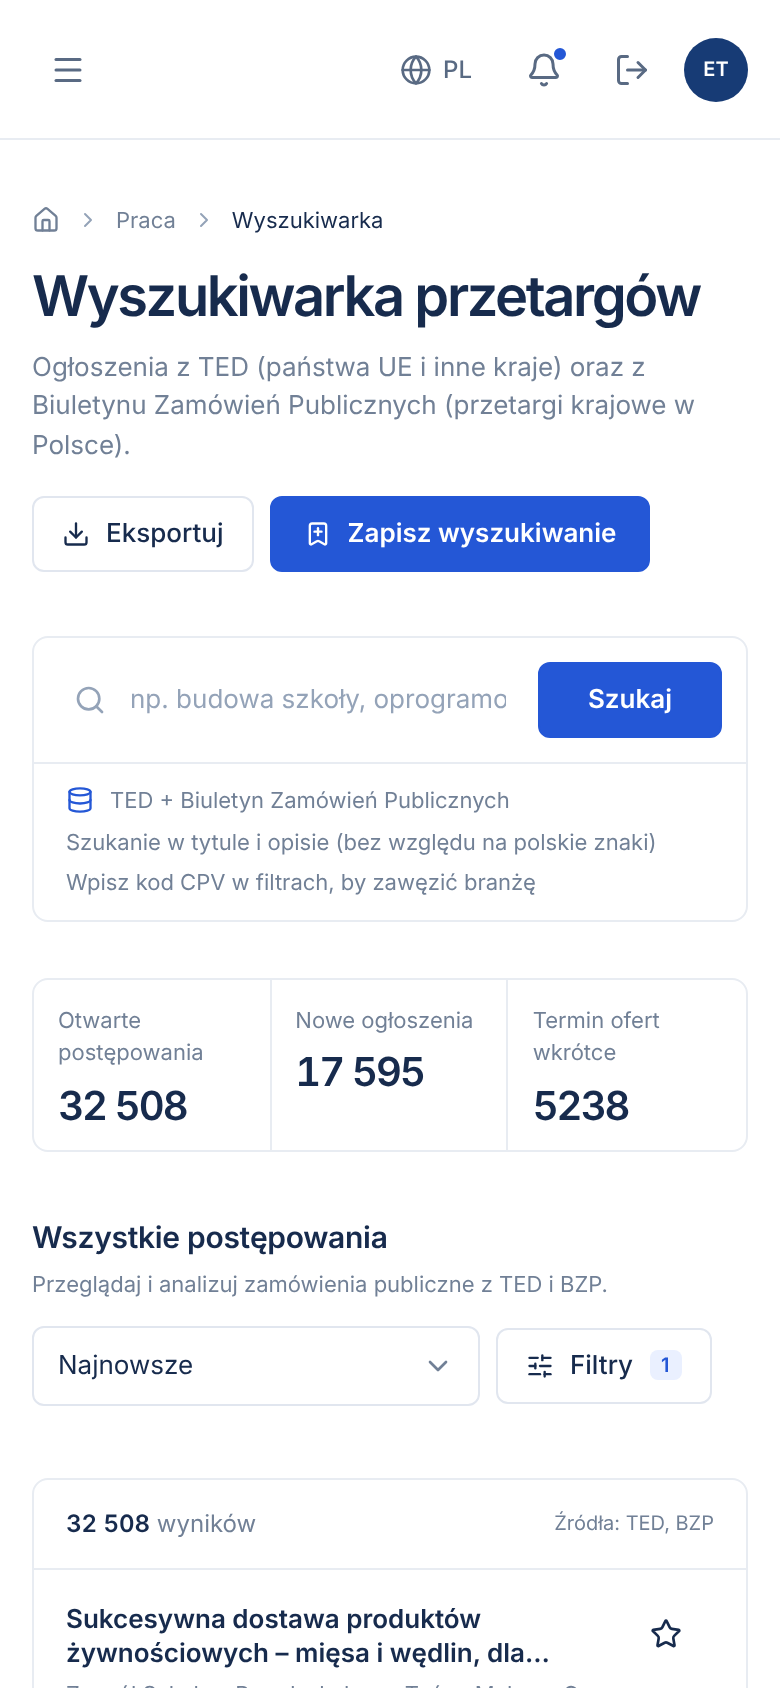
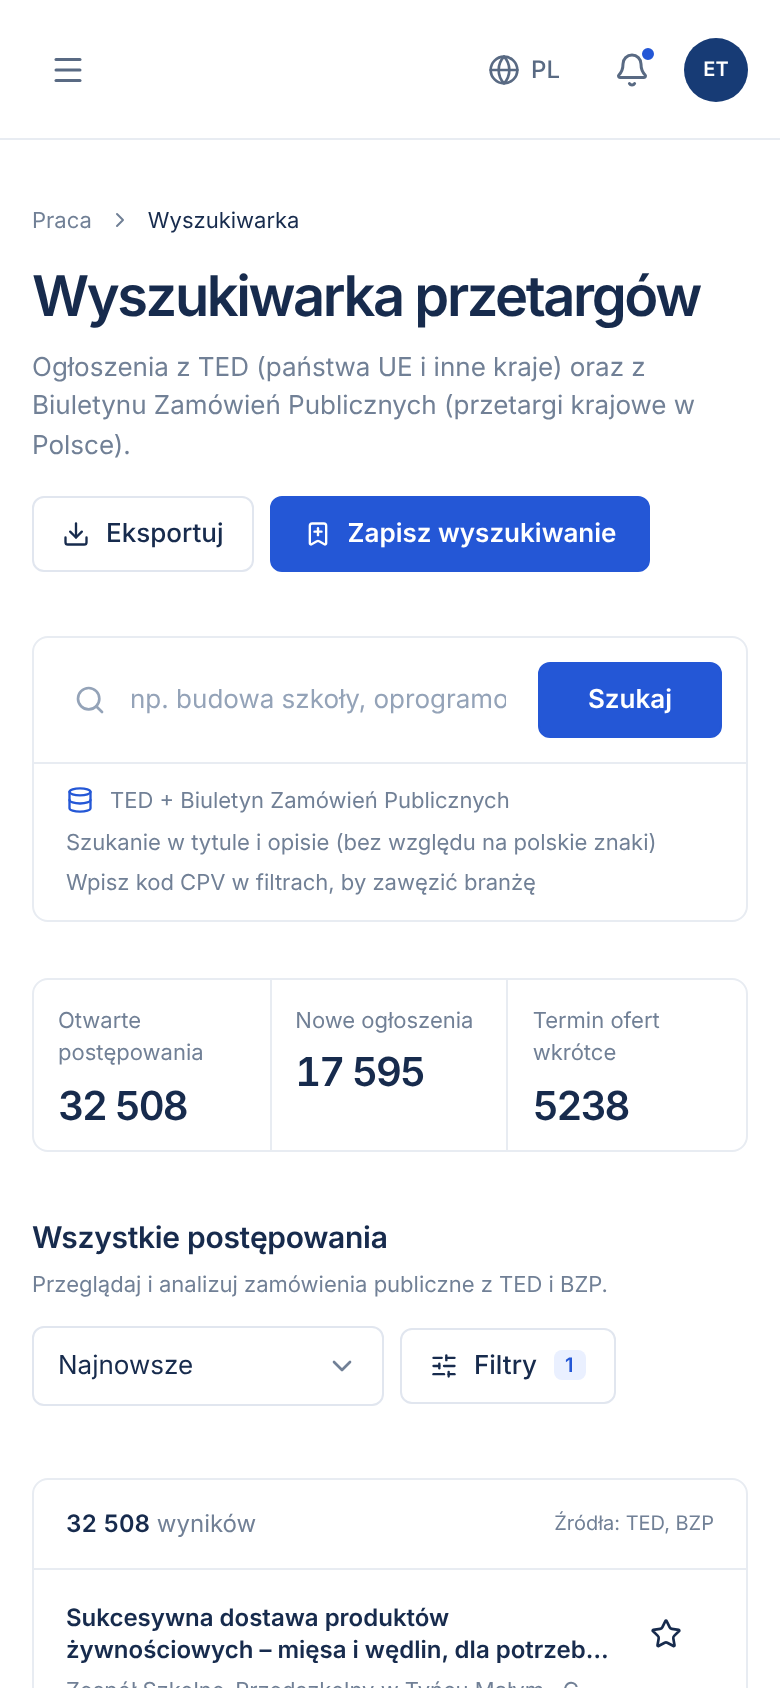
Search and frame closer to the reference design
Labels above filter controls, Filters button next to sorting (toggles
the panel), filled status labels without outline, 12 px titles, bordered
top-bar search, menu button only on small screens, logout moved to the
user card, breadcrumbs start with the section name. Side-by-side
comparison with the reference in docs/design/app.

Claude-Session: https://claude.ai/code/session_01QA4VGnhTqGGEYJP6gryvm6

diff --git a/frontend/src/app/core/layout/shell.component.html b/frontend/src/app/core/layout/shell.component.html
@@ -12,7 +12,7 @@
 
   <aside
     id="eti-sidebar"
-    class="fixed inset-y-0 left-0 z-40 flex w-[250px] shrink-0 flex-col border-r border-border bg-sidebar transition-transform lg:sticky lg:top-0 lg:h-dvh lg:translate-x-0 lg:data-[collapsed=true]:hidden"
+    class="fixed inset-y-0 left-0 z-40 flex w-[250px] shrink-0 flex-col border-r border-border bg-sidebar transition-transform lg:sticky lg:top-0 lg:h-dvh lg:translate-x-0"
     [class.-translate-x-full]="!menuOpen()"
     [class.shadow-xl]="menuOpen()"
     [attr.data-collapsed]="sidebarHidden()"
@@ -90,8 +90,8 @@
     </nav>
 
     @if (auth.user(); as user) {
-      <div class="border-t border-border p-4">
-        <a routerLink="/account" class="flex items-center gap-3 rounded-lg p-2 hover:bg-canvas" (click)="closeMenu()">
+      <div class="flex items-center gap-1 border-t border-border p-4">
+        <a routerLink="/account" class="flex min-w-0 flex-1 items-center gap-3 rounded-lg p-2 hover:bg-canvas" (click)="closeMenu()">
           <span class="flex size-9 shrink-0 items-center justify-center rounded-full bg-accent-soft text-xs font-bold text-accent" aria-hidden="true">{{ initials() }}</span>
           <span class="min-w-0 flex-1">
             <span class="block truncate text-xs font-semibold text-ink">{{ user.fullName }}</span>
@@ -99,8 +99,11 @@
               <span class="mt-0.5 block truncate text-[10px] text-ink-muted">{{ current.name }} · {{ 'nav.plan' | transloco: { plan: ('billing.plan.' + current.planCode | transloco) } }}</span>
             }
           </span>
-          <svg lucideChevronRight class="size-4 text-ink-muted" aria-hidden="true"></svg>
         </a>
+        <button type="button" class="eti-icon-btn shrink-0" [attr.aria-label]="'nav.logout' | transloco" [title]="'nav.logout' | transloco"
+                (click)="logout()">
+          <svg lucideLogOut class="size-4" aria-hidden="true"></svg>
+        </button>
       </div>
     }
   </aside>
@@ -109,7 +112,7 @@
     <header class="sticky top-0 z-20 flex h-[70px] items-center gap-3 border-b border-border bg-surface/95 px-4 backdrop-blur sm:px-5 lg:px-9">
       <button
         type="button"
-        class="eti-icon-btn"
+        class="eti-icon-btn lg:hidden"
         [attr.aria-label]="(menuOpen() ? 'nav.closeMenu' : 'nav.openMenu') | transloco"
         [attr.aria-expanded]="menuOpen() || !sidebarHidden()"
         aria-controls="eti-sidebar"
@@ -127,7 +130,7 @@
         <div class="relative w-full max-w-[340px]">
           <svg lucideSearch class="pointer-events-none absolute top-1/2 left-3 size-4 -translate-y-1/2 text-ink-faint" aria-hidden="true"></svg>
           <input #globalSearch id="global-search" name="q" type="search" [(ngModel)]="globalQuery" maxlength="200"
-                 class="h-10 w-full rounded-[var(--radius-control)] border border-transparent bg-[#fafbfd] pr-14 pl-9 text-[13px] text-ink placeholder:text-ink-faint focus:border-accent focus:bg-surface focus:ring-[3px] focus:ring-accent/10 focus:outline-none"
+                 class="h-10 w-full rounded-[var(--radius-control)] border border-border-strong bg-[#fafbfd] pr-14 pl-9 text-[13px] text-ink placeholder:text-ink-faint focus:border-accent focus:bg-surface focus:ring-[3px] focus:ring-accent/10 focus:outline-none"
                  [placeholder]="'nav.globalSearchPlaceholder' | transloco" aria-keyshortcuts="Control+K Meta+K" />
           <kbd class="pointer-events-none absolute top-1/2 right-3 -translate-y-1/2 rounded border border-border px-1.5 py-0.5 font-sans text-[10px] text-ink-faint" aria-hidden="true">{{ shortcutLabel }}</kbd>
         </div>
@@ -148,10 +151,6 @@
               <span class="absolute top-1.5 right-1.5 size-2 rounded-full border border-surface bg-accent" aria-hidden="true"></span>
             }
           </a>
-          <button type="button" class="eti-icon-btn" [attr.aria-label]="'nav.logout' | transloco" [title]="'nav.logout' | transloco"
-                  (click)="logout()">
-            <svg lucideLogOut class="size-[18px]" aria-hidden="true"></svg>
-          </button>
           <a routerLink="/account" class="inline-flex size-8 items-center justify-center rounded-full bg-navy-900 text-[10px] font-semibold text-white hover:ring-4 hover:ring-accent-soft"
              [title]="user.fullName" [attr.aria-label]="('nav.account' | transloco) + ': ' + user.fullName">{{ initials() }}</a>
         }
@@ -161,11 +160,10 @@
     <main id="main" tabindex="-1" class="mx-auto w-full max-w-[1500px] flex-1 px-4 pt-8 pb-10 sm:px-5 lg:px-9 lg:pt-9">
       @if (crumbs().length) {
         <nav class="mb-3 flex items-center gap-2 text-[11px] text-ink-muted" [attr.aria-label]="'nav.breadcrumbs' | transloco">
-          <a routerLink="/" class="hover:text-accent" [attr.aria-label]="'nav.dashboard' | transloco">
-            <svg lucideHouse class="size-3.5" aria-hidden="true"></svg>
-          </a>
-          @for (c of crumbs(); track $index; let last = $last) {
-            <svg lucideChevronRight class="size-3 text-ink-faint" aria-hidden="true"></svg>
+          @for (c of crumbs(); track $index; let last = $last; let first = $first) {
+            @if (!first) {
+              <svg lucideChevronRight class="size-3" aria-hidden="true"></svg>
+            }
             @if (c.link && !last) {
               <a [routerLink]="c.link" class="hover:text-accent">{{ c.key | transloco }}</a>
             } @else {

diff --git a/frontend/src/app/features/search/search.page.html b/frontend/src/app/features/search/search.page.html
@@ -72,10 +72,10 @@
       <p class="mt-1 text-[11px] text-ink-muted">{{ 'search.allTendersHint' | transloco }}</p>
     </div>
     <div class="flex flex-wrap items-center gap-2">
-      <eti-select class="w-56" inputId="sort" name="sort" [spaced]="false" [ariaLabel]="'search.sort' | transloco"
+      <eti-select class="w-44" inputId="sort" name="sort" [spaced]="false" [ariaLabel]="'search.sort' | transloco"
                   [options]="form.q ? sortSelect().withQuery : sortSelect().withoutQuery"
                   [(ngModel)]="form.sort" (ngModelChange)="submit()" />
-      <button type="button" class="eti-btn-secondary xl:hidden" [attr.aria-expanded]="filtersOpen()"
+      <button type="button" class="eti-btn-secondary" [attr.aria-expanded]="filtersOpen()"
               aria-controls="filters" (click)="filtersOpen.set(!filtersOpen())">
         <svg lucideSlidersHorizontal class="size-3.5" aria-hidden="true"></svg>{{ 'search.filters' | transloco }}
         @if (activeFilters()) {
@@ -85,10 +85,10 @@
     </div>
   </div>
 
-  <div class="grid grid-cols-1 gap-5 xl:grid-cols-[240px_minmax(0,1fr)]">
+  <div class="grid grid-cols-1 gap-5 xl:data-[filters=true]:grid-cols-[225px_minmax(0,1fr)]" [attr.data-filters]="filtersOpen()">
     <!-- Filters -->
     <div class="min-w-0">
-      <section id="filters" class="eti-card space-y-5 self-start p-4 xl:block" [class.hidden]="!filtersOpen()" aria-labelledby="filters-heading">
+      <section id="filters" class="eti-card space-y-5 self-start p-4" [class.hidden]="!filtersOpen()" aria-labelledby="filters-heading">
         <div class="flex items-center justify-between">
           <h2 id="filters-heading" class="text-[13px] font-semibold">{{ 'search.filters' | transloco }}</h2>
           @if (activeFilters()) {
@@ -96,14 +96,14 @@
           }
         </div>
 
-        <eti-multi-check class="block" [label]="'search.status' | transloco" [allLabel]="'search.allStatuses' | transloco"
+        <eti-multi-check class="block" [stacked]="true" [label]="'search.status' | transloco" [allLabel]="'search.allStatuses' | transloco"
                          [options]="statusOptions()" [(selected)]="form.status" />
-        <eti-multi-check class="block" [label]="'search.countries' | transloco" [allLabel]="'search.allCountries' | transloco"
+        <eti-multi-check class="block" [stacked]="true" [label]="'search.countries' | transloco" [allLabel]="'search.allCountries' | transloco"
                          [options]="countryOptions()" [(selected)]="form.country" />
         <eti-cpv-picker class="block" [label]="'search.cpv' | transloco" [lang]="language.current()" [(selected)]="form.cpv" />
-        <eti-multi-check class="block" [label]="'search.contractType' | transloco" [allLabel]="'search.allTypes' | transloco"
+        <eti-multi-check class="block" [stacked]="true" [label]="'search.contractType' | transloco" [allLabel]="'search.allTypes' | transloco"
                          [options]="typeOptions()" [(selected)]="form.contractType" />
-        <eti-multi-check class="block" [label]="'search.procedureType' | transloco" [allLabel]="'search.allProcedures' | transloco"
+        <eti-multi-check class="block" [stacked]="true" [label]="'search.procedureType' | transloco" [allLabel]="'search.allProcedures' | transloco"
                          [options]="procedureOptions()" [(selected)]="form.procedureType" />
 
         <fieldset class="grid grid-cols-2 gap-2">
@@ -213,7 +213,7 @@
               </p>
               <span class="text-[10px] text-ink-muted">{{ 'search.sourceNote' | transloco }}</span>
             </div>
-            <div class="eti-table-head hidden grid-cols-[minmax(0,1fr)_8rem_8.5rem_9rem_7rem_2.5rem] gap-3 px-4 py-3 lg:grid" aria-hidden="true">
+            <div class="eti-table-head hidden grid-cols-[minmax(0,1fr)_9rem_7.5rem_7.5rem_6.5rem_2.5rem] gap-3 px-4 py-3 lg:grid" aria-hidden="true">
               <span>{{ 'search.columns.tender' | transloco }}</span>
               <span>{{ 'search.columns.country' | transloco }}</span>
               <span>{{ 'search.columns.value' | transloco }}</span>
@@ -224,9 +224,9 @@
             <ul class="divide-y divide-border">
               @for (t of r.items; track t.id) {
                 @let lang = language.current();
-                <li class="grid grid-cols-[minmax(0,1fr)_2.5rem] gap-3 px-4 py-4 text-xs hover:bg-subtle lg:grid-cols-[minmax(0,1fr)_8rem_8.5rem_9rem_7rem_2.5rem] lg:items-center">
+                <li class="grid grid-cols-[minmax(0,1fr)_2.5rem] gap-3 px-4 py-4 text-xs hover:bg-subtle lg:grid-cols-[minmax(0,1fr)_9rem_7.5rem_7.5rem_6.5rem_2.5rem] lg:items-center">
                   <div class="min-w-0">
-                    <h3 class="line-clamp-2 text-[13px] leading-snug font-semibold break-words text-ink" [title]="t.title">
+                    <h3 class="line-clamp-2 text-xs leading-snug font-semibold break-words text-ink" [title]="t.title">
                       <a [routerLink]="['/tenders', t.id]" class="hover:text-accent">{{ t.title }}</a>
                     </h3>
                     <p class="mt-1 truncate text-[11px] text-ink-muted">

diff --git a/frontend/src/app/shared/ui/multi-check.component.ts b/frontend/src/app/shared/ui/multi-check.component.ts
@@ -14,10 +14,16 @@ let nextId = 0;
   selector: 'eti-multi-check',
   imports: [TranslocoPipe, LucideChevronDown],
   template: `
+    @if (stacked()) {
+      <span class="eti-label" aria-hidden="true">{{ label() }}</span>
+    }
     <details class="group" [attr.open]="startOpen() ? '' : null">
-      <summary class="eti-input flex cursor-pointer list-none items-center justify-between">
+      <summary class="eti-input flex cursor-pointer list-none items-center justify-between" [class.mt-2]="stacked()"
+               [attr.aria-label]="stacked() ? label() + ': ' + summary() : null">
         <span class="truncate">
-          <span class="text-ink-muted">{{ label() }}:</span>
+          @if (!stacked()) {
+            <span class="text-ink-muted">{{ label() }}:</span>
+          }
           {{ summary() }}
         </span>
         <svg lucideChevronDown class="size-4 shrink-0 text-ink-muted transition-transform group-open:rotate-180" aria-hidden="true"></svg>
@@ -52,6 +58,8 @@ export class MultiCheckComponent {
   readonly options = input.required<CheckOption[]>();
   readonly allLabel = input.required<string>();
   readonly startOpen = input(false);
+  /** Label above the control (filter panels) instead of inside it. */
+  readonly stacked = input(false);
   readonly selected = model<string[]>([]);
   protected readonly filter = signal('');
   protected readonly filterId = `mc-${nextId++}`;

diff --git a/frontend/src/app/shared/ui/badge.component.ts b/frontend/src/app/shared/ui/badge.component.ts
@@ -4,7 +4,7 @@ export type BadgeTone = 'neutral' | 'success' | 'warning' | 'danger' | 'info';
 
 const TONES: Record<BadgeTone, string> = {
   neutral: 'bg-canvas text-ink-muted ring-border',
-  success: 'bg-success-soft text-success ring-success/25',
+  success: 'bg-emerald-50 text-emerald-700',
   warning: 'bg-warning-soft text-warning ring-warning/25',
   danger: 'bg-danger-soft text-danger ring-danger/25',
   info: 'bg-accent-soft text-accent ring-accent/25',
@@ -18,7 +18,7 @@ export class BadgeComponent {
   readonly tone = input<BadgeTone>('neutral');
   protected readonly classes = computed(
     () =>
-      'inline-flex items-center gap-1 rounded-md px-2 py-0.5 text-xs font-medium ring-1 ring-inset ' +
+      'inline-flex items-center gap-1 rounded px-2 py-1 text-xs font-medium leading-none ' +
       TONES[this.tone()],
   );
 }

diff --git a/frontend/src/app/features/search/search.page.ts b/frontend/src/app/features/search/search.page.ts
@@ -68,7 +68,8 @@ export class SearchPage {
   protected readonly results = signal<Page<TenderSummary> | null>(null);
   protected readonly loading = signal(true);
   protected readonly error = signal<ApiError | null>(null);
-  protected readonly filtersOpen = signal(false);
+  /** Filter panel: shown next to the results on wide screens, toggled with the "Filters" button. */
+  protected readonly filtersOpen = signal(typeof window !== 'undefined' && window.matchMedia('(min-width: 1280px)').matches);
   protected readonly exportBusy = signal(false);
   protected readonly exportNote = signal<string | null>(null);
   protected readonly notice = signal<string | null>(null);

diff --git a/frontend/src/app/core/layout/shell.component.ts b/frontend/src/app/core/layout/shell.component.ts
@@ -11,7 +11,6 @@ import {
   LucideChevronDown,
   LucideChevronRight,
   LucideCreditCard,
-  LucideHouse,
   LucideLandmark,
   LucideLayoutDashboard,
   LucideLogOut,
@@ -87,8 +86,7 @@ const COLLAPSE_KEY = 'eti.sidebar.collapsed';
     LucideChevronDown,
     LucideChevronRight,
     LucideCreditCard,
-    LucideHouse,
-    LucideLandmark,
+      LucideLandmark,
     LucideLayoutDashboard,
     LucideLogOut,
     LucideMenu,
